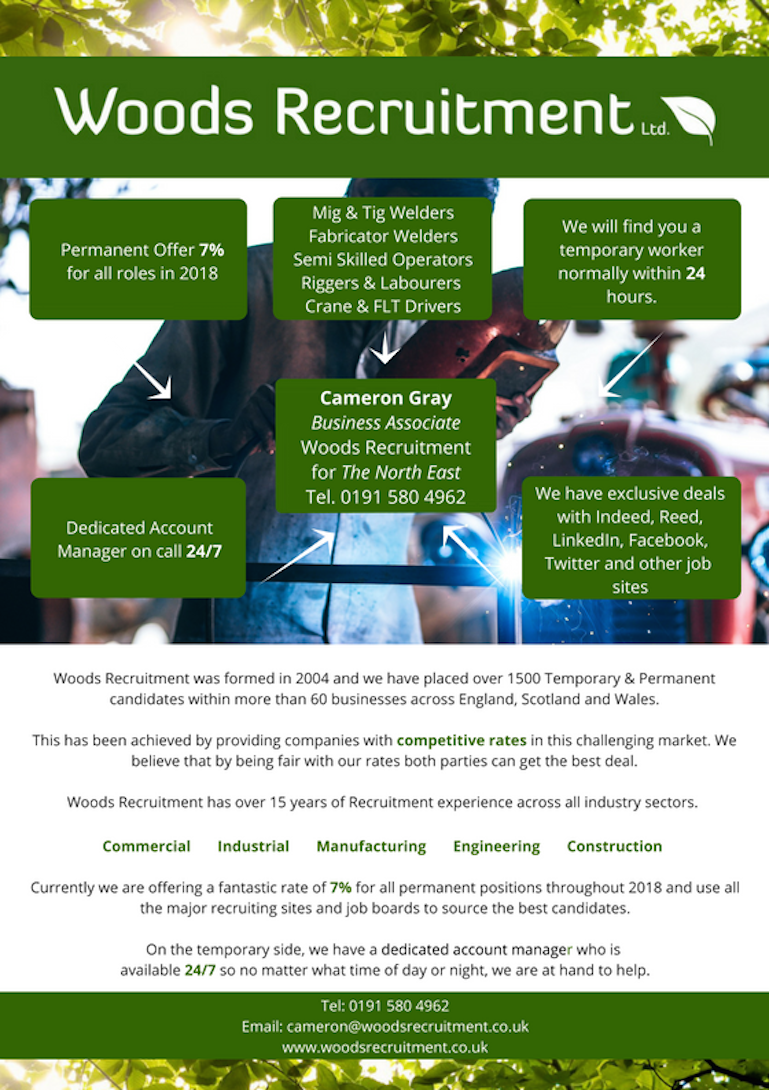
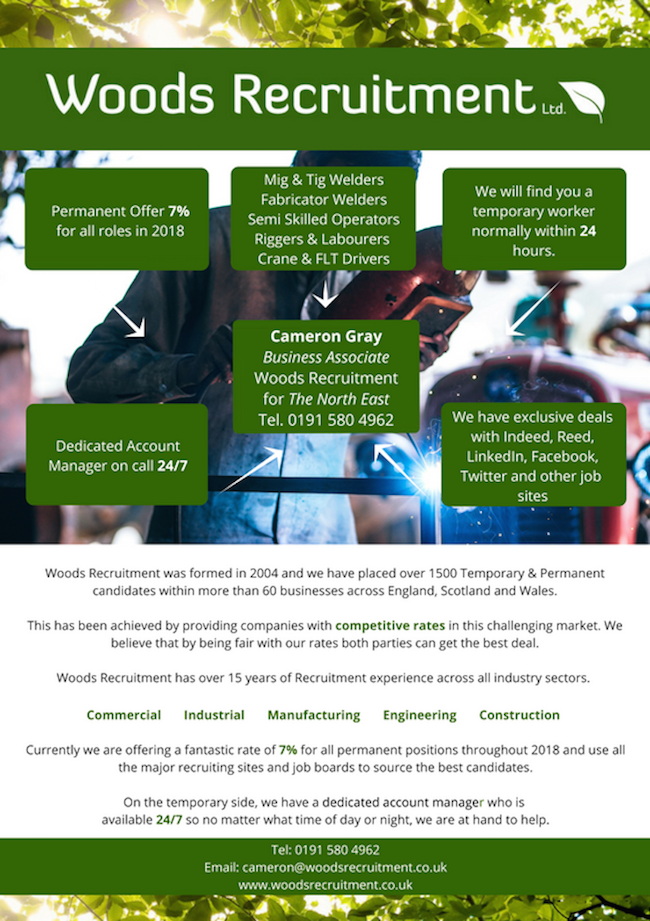
franchise page

diff --git a/app/assets/stylesheets/pages.scss b/app/assets/stylesheets/pages.scss
@@ -52,28 +52,31 @@
                                   supported by Chrome and Opera */
 }
 
-.table-striped > tbody > tr:nth-child(odd) > {
-  td, th {
-    background-color: #336600;
-    color: white;
-  }
-}
+// .table-striped > tbody > tr:nth-child(odd) > {
+//   td, th {
+//     background-color: #336600;
+//     color: white;
+//   }
+// }
 
 .flyer {
-  /* ... */
-  width: 769px;
-  height: 1090px;
+  background-repeat: no-repeat;
+  width: 650px;
+  height: 921px;
   background: image-url("flyer-large");
+  display: block; /*for the img inside your div */
+  margin: 0 auto;
 }
 
 
 @media only screen and (min-width: 992px) and (max-width: 1200px) {
   .flyer {
-    /* ... */
-    width: 769px;
-    height: 1090px;
-    background: image-url("flyer-large");
     background-repeat: no-repeat;
+    width: 650px;
+    height: 921px;
+    background: image-url("flyer-large");
+    display: block; /*for the img inside your div */
+    margin: 0 auto;
 
   }
 }
@@ -81,9 +84,9 @@
 /* Mobile Landscape */
 @media only screen and (min-width: 768px) and (max-width: 992px) {
   .flyer {
-    /* ... */
-    width: 600px;
-    height: 851px;
+    background-repeat: no-repeat;
+    width: 500px;
+    height: 709px;
     background: image-url("flyer-med");
   }
 }
